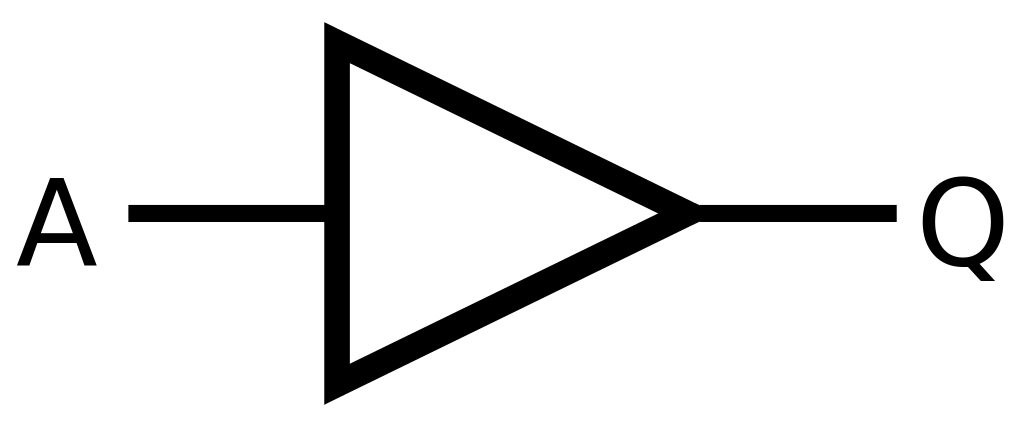
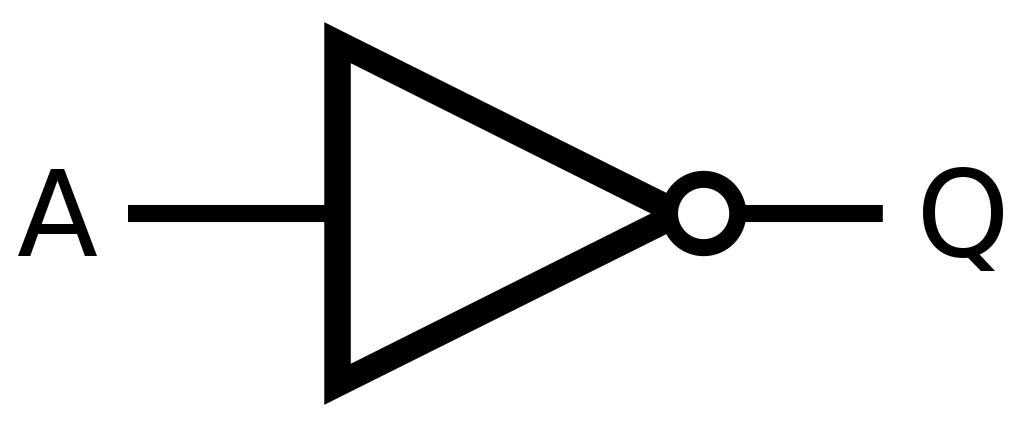
[PDCD-12] Adicionar frame do Tinkercad nas páginas das portas lógicas
Adição do circuito do Tinkercad no final de cada página que explica sobre uma porta lógica. Correção na imagem da porta NOT.

diff --git a/src/pages/digital-electronics/logic-gates/NandGate.tsx b/src/pages/digital-electronics/logic-gates/NandGate.tsx
@@ -79,6 +79,13 @@ export const NandGate = (): JSX.Element => {
             className="circuit-frame"
           />
         </div>
+        <div className="space-around flex-center-column">
+          <iframe
+            title="tinkercad-two-input-nand-gate"
+            src="https://www.tinkercad.com/embed/2D4nqsdrZfj?editbtn=1"
+            className="circuit-frame"
+          />
+        </div>
       </div>
     </div>
   );

diff --git a/src/pages/digital-electronics/logic-gates/XnorGate.tsx b/src/pages/digital-electronics/logic-gates/XnorGate.tsx
@@ -80,6 +80,13 @@ export const XnorGate = (): JSX.Element => {
             className="circuit-frame"
           />
         </div>
+        <div className="space-around flex-center-column">
+          <iframe
+            title="tinkercad-two-input-xnor-gate"
+            src="https://www.tinkercad.com/embed/7O4UNaIaxRk?editbtn=1"
+            className="circuit-frame"
+          />
+        </div>
       </div>
     </div>
   );

diff --git a/src/pages/digital-electronics/logic-gates/NorGate.tsx b/src/pages/digital-electronics/logic-gates/NorGate.tsx
@@ -79,6 +79,13 @@ export const NorGate = (): JSX.Element => {
             className="circuit-frame"
           />
         </div>
+        <div className="space-around flex-center-column">
+          <iframe
+            title="tinkercad-two-input-nor-gate"
+            src="https://www.tinkercad.com/embed/cRgJkIV4g8O?editbtn=1"
+            className="circuit-frame"
+          />
+        </div>
       </div>
     </div>
   );

diff --git a/src/pages/digital-electronics/logic-gates/XorGate.tsx b/src/pages/digital-electronics/logic-gates/XorGate.tsx
@@ -76,6 +76,13 @@ export const XorGate = (): JSX.Element => {
             className="circuit-frame"
           />
         </div>
+        <div className="space-around flex-center-column">
+          <iframe
+            title="tinkercad-two-input-xor-gate"
+            src="https://www.tinkercad.com/embed/4Nr6eZxRQCH?editbtn=1"
+            className="circuit-frame"
+          />
+        </div>
       </div>
     </div>
   );

diff --git a/src/pages/digital-electronics/logic-gates/OrGate.tsx b/src/pages/digital-electronics/logic-gates/OrGate.tsx
@@ -83,6 +83,13 @@ export const OrGate = (): JSX.Element => {
             className="circuit-frame"
           />
         </div>
+        <div className="space-around flex-center-column">
+          <iframe
+            title="tinkercad-two-input-or-gate"
+            src="https://www.tinkercad.com/embed/9Xq4DPq1vLp?editbtn=1"
+            className="circuit-frame"
+          />
+        </div>
       </div>
     </div>
   );

diff --git a/src/pages/digital-electronics/logic-gates/AndGate.tsx b/src/pages/digital-electronics/logic-gates/AndGate.tsx
@@ -85,6 +85,13 @@ export const AndGate = (): JSX.Element => {
             className="circuit-frame"
           />
         </div>
+        <div className="space-around flex-center-column">
+          <iframe
+            title="tinkercad-two-input-and-gate"
+            src="https://www.tinkercad.com/embed/eO7ZXmNGCt1"
+            className="circuit-frame"
+          />
+        </div>
       </div>
     </div>
   );

diff --git a/src/pages/digital-electronics/logic-gates/NotGate.tsx b/src/pages/digital-electronics/logic-gates/NotGate.tsx
@@ -77,6 +77,13 @@ export const NotGate = (): JSX.Element => {
             className="circuit-frame"
           />
         </div>
+        <div className="space-around flex-center-column">
+          <iframe
+            title="tinkercad-not-gate"
+            src="https://www.tinkercad.com/embed/7RVdKySnyUV?editbtn=1"
+            className="circuit-frame"
+          />
+        </div>
       </div>
     </div>
   );

diff --git a/src/styles/App.scss b/src/styles/App.scss
@@ -333,3 +333,7 @@ table {
 .assembly-funny {
   width: 40%;
 }
+
+.space-around {
+  padding: 4rem;
+}
